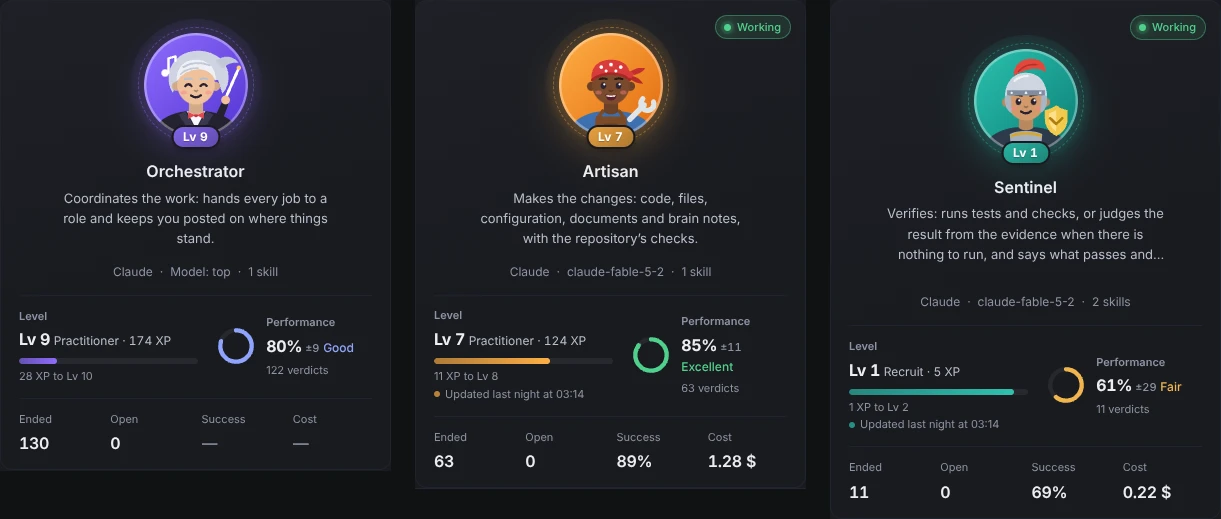
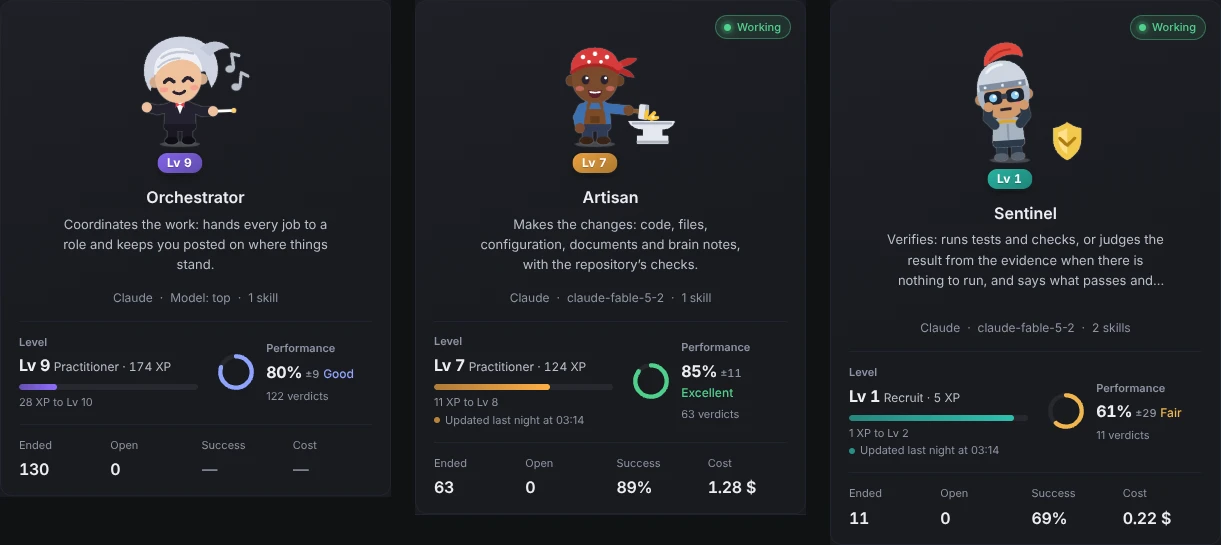
feat(agents): the role's little person at work on the front of its card; no person for Flash (ADR 0294)
The owner approved the little people and asked for them on the front of the
role cards too. Flash gets none: that agent is being removed. README shots of
the cards retaken.

diff --git a/src/shared/concept-guide.de.ts b/src/shared/concept-guide.de.ts
@@ -72,7 +72,7 @@ export const GUIDE_DE: Readonly<Record<string, string>> = {
   "A new version comes only when the text or the skills change, and it says what changed; model (engine, model, effort), tier, tools, permissions, limits, the app’s migrations and the automatic engine switch update the version in use. The role’s page has a \"By model\" table: runs, performance (it starts from the role’s own), cost per successful run (marked \"estimate\" when the engine reports tokens only) and time. For each version the page shows runs, verified outcomes and the success with its ± (under 5 outcomes: \"too few\"), and brings an older one back with a click.": "Eine neue Version entsteht nur, wenn sich Text oder Skills ändern, und sie sagt, was sich geändert hat; Modell (Engine, Modell, Aufwand), Stufe, Tools, Berechtigungen, Grenzen, die Migrationen der App und der automatische Engine-Wechsel aktualisieren die aktive Version. Die Seite der Rolle hat eine Tabelle „Nach Modell“: Läufe, Leistung (sie startet bei der Leistung der Rolle), Kosten pro erfolgreichem Lauf (als „Schätzung“ markiert, wenn die Engine nur Tokens meldet) und Zeit. Für jede Version zeigt die Seite Runs, geprüfte Ergebnisse und den Erfolg mit seinem ± (unter 5 Ergebnissen: „zu wenige“) und aktiviert eine ältere mit einem Klick.",
   "Every role uses the model written on its card; when the card names none, the tier (light, mid, top) becomes a model per engine: your choice in Settings, else the brain’s model registry. No table picks the model per kind of work. Sentinel is independent because it starts in a new session without the parent’s reasoning, not because it switches model. Engine, model and effort (by the model’s real names: low, medium, high, xhigh, max) are chosen in one picker, the same everywhere: on the back of the card (\"Save to the role\", for the role’s new chats), from the model chip of the Orchestrator and Flash and from \"Model and effort…\" in a strip’s ⋯; it searches the four engines, says why an engine cannot be picked and shows each model’s context, effort and price (\"price unknown\" when the registry does not know it: the model can be picked all the same). The lists come from the engines themselves, refresh by themselves every 6 hours and at once with \"Refresh list\"; a model out today shows up without an app update: the app runs the Claude Code installed on the PC (the copy included in the app only when there is none, with a notice in Settings › Engines) and each menu adds the models of the brain’s models.json the engine’s list does not name yet, marked «from the registry». \"This chat only\" changes just the chat, \"Orchestrator default\" saves on its card. The back of the card keeps the context window; when the model lacks the chosen effort, the task starts at the nearest lower level and the card says so. At the top of the Orchestrator’s model menu sits the \"Balanced mode\" switch (mirrored in Settings › Roles and delegation): on, every card shows \"Balanced\" and whoever delegates picks engine, model and effort so that every provider’s credits go down in proportion to what is left; off, every role goes back to its card.": "Jede Rolle nutzt das Modell, das auf ihrer Karte steht; nennt die Karte keines, wird die Stufe (leicht, mittel, hoch) zu einem Modell pro Engine: deine Wahl in den Einstellungen, sonst die Modellregistry des Brain. Keine Tabelle wählt das Modell nach Art der Arbeit. Sentinel ist unabhängig, weil es in einer neuen Sitzung ohne die Überlegungen des Elternchats startet, nicht weil es das Modell wechselt. Engine, Modell und Effort (mit den echten Namen des Modells: low, medium, high, xhigh, max) wählst du in einer einzigen Auswahl, überall gleich: auf der Rückseite der Karte („In der Rolle speichern“, für die neuen Chats der Rolle), über den Modell-Chip des Orchestrators und von Flash und über „Modell und Effort…“ im ⋯ eines Streifens; sie durchsucht die vier Engines, sagt, warum eine Engine nicht wählbar ist, und zeigt Kontext, Effort und Preis jedes Modells („Preis unbekannt“, wenn die Registry ihn nicht kennt: das Modell ist trotzdem wählbar). Die Listen kommen von den Engines selbst, aktualisieren sich alle 6 Stunden von selbst und sofort mit „Liste aktualisieren“; ein heute erschienenes Modell erscheint ohne App-Update: Die App nutzt das auf dem PC installierte Claude Code (die in der App enthaltene Kopie nur, wenn keines da ist, mit einem Hinweis in Einstellungen › Engines), und jedes Menü ergänzt die Modelle aus der models.json des Brains, die die Liste der Engine noch nicht nennt, markiert mit „aus dem Register“. „Nur dieser Chat“ ändert nur den Chat, „Standard des Orchestrators“ speichert auf seiner Karte. Auf der Rückseite der Karte bleibt das Kontextfenster; fehlt dem Modell der gewählte Effort, startet die Aufgabe mit der nächstniedrigeren Stufe und die Karte sagt es. Oben im Modellmenü des Orchestrators sitzt der Schalter „Balanced mode“ (gespiegelt in Einstellungen › Rollen und Delegation): an, zeigt jede Karte „Balanced“ und wer delegiert, wählt Engine, Modell und Effort so, dass die Guthaben aller Anbieter im Verhältnis zum Rest sinken; aus, kehrt jede Rolle zu ihrer Karte zurück.",
   "Tools come in classes: a role limited to read-only commands has a writing command refused in the chat (when a chat that may run it delegated it, you decide); one that reads, or a node script listed in read-only-tools.md in the brain, reaches you as a permission without \"always\". When a skill passed to a role uses tools the role lacks, the Orchestrator knows at once, as it opens or delegates the work.": "Tools gibt es in Klassen: bei einer Rolle, die nur lesende Befehle darf, wird ein schreibender Befehl im Chat abgelehnt (hat ein Chat, der ihn ausführen darf, ihn delegiert, entscheidest du); einer, der liest, oder ein node-Skript, das in read-only-tools.md im Brain steht, erreicht dich als Berechtigung ohne „immer“. Nutzt ein an eine Rolle übergebener Skill Tools, die der Rolle fehlen, weiß es der Orchestrator sofort, wenn er die Arbeit eröffnet oder delegiert.",
-  "Every role has a cartoon character recognisable even at 16 px: below 24 px the colour, the hair or headwear and the eyes stay; from 24 px the face and the prop too.": "Jede Rolle hat eine Comicfigur, die auch bei 16 px erkennbar ist: unter 24 px bleiben Farbe, Haare oder Kopfbedeckung und Augen; ab 24 px auch Gesicht und Requisit.",
+  "Every role has a cartoon character recognisable even at 16 px: below 24 px the colour, the hair or headwear and the eyes stay; from 24 px the face and the prop too. On the front of its card in Agents the role is its whole little person at work, the same as on the Grindhouse strips.": "Jede Rolle hat eine Comicfigur, die auch bei 16 px erkennbar ist: unter 24 px bleiben Farbe, Haare oder Kopfbedeckung und Augen; ab 24 px auch Gesicht und Requisit. Auf der Vorderseite ihrer Karte in Agenten ist die Rolle ihr ganzes Männchen bei der Arbeit, dasselbe wie auf den Streifen des Grindhouse.",
   "Like the department cards of a workshop: who does what, with which tools and how far they may go without asking; the card is updated, the department stays.": "Wie die Abteilungskarten einer Werkstatt: wer was macht, mit welchen Werkzeugen und wie weit ohne Nachfragen; die Karte wird aktualisiert, die Abteilung bleibt.",
   "Tool classes: read, edit, shell, shell-read, web, browser, browser-read, mail-draft, calendar-read, brain-write, mcp (all by default). Ceilings: none (default), acceptEdits, default, plan.": "Tool-Klassen: read, edit, shell, shell-read, web, browser, browser-read, mail-draft, calendar-read, brain-write, mcp (alle standardmäßig). Grenzen: none (Standard), acceptEdits, default, plan.",
   "Instructions ≤ 8000 chars; at most 40 default skills; a role never launches itself or the Orchestrator.": "Anweisungen ≤ 8000 Zeichen; höchstens 40 Standard-Skills; eine Rolle startet nie sich selbst oder den Orchestrator.",
@@ -222,7 +222,7 @@ export const GUIDE_DE: Readonly<Record<string, string>> = {
   "Questions never wake the Orchestrator by themselves (orchestrator-wake.ts); the order is arrival order.": "Fragen wecken den Orchestrator nie von selbst (orchestrator-wake.ts); die Reihenfolge ist die des Eintreffens.",
   "The Grindhouse": "Das Grindhouse",
   "The home page: one strip per working agent, with the browsers it drives beside the expanded chat.": "Die Startseite: ein Streifen pro arbeitendem Agenten, mit den Browsern, die er steuert, neben dem aufgeklappten Chat.",
-  "The page shows one strip per agent, on a single line: the role’s little person doing its job while the chat works (the Artisan hammers, the Sentinel scans with binoculars) and changing with the state (thinking, waiting for you, done, failed, resting), the name, what it is doing now and, on the right, time and cost so far next to the estimate (amber once past it). The details (model, full estimate, links) open from the ⓘ of the open window. The controls (stop, full screen, menu) appear under the pointer; pending requests are collected in the Orchestrator while keeping the link to the original worker. The Orchestrator and Flash have no strip: their little person stands on the chat’s \"thinking\" line.": "Die Seite zeigt einen Streifen pro Agent, in einer einzigen Zeile: das Männchen der Rolle, das seine Arbeit tut, während der Chat arbeitet (der Artisan hämmert, die Sentinel späht mit dem Fernglas), und sich mit dem Zustand ändert (denkt nach, wartet auf dich, fertig, Fehler, ruht), den Namen, was er gerade tut und rechts Zeit und Kosten bisher neben der Schätzung (bernsteinfarben, sobald sie überschritten ist). Die Details (Modell, vollständige Schätzung, Links) öffnen sich über das ⓘ des geöffneten Fensters. Die Bedienelemente (Stopp, Vollbild, Menü) erscheinen unter dem Mauszeiger; offene Anfragen werden im Orchestrator gesammelt, die Verbindung zum ursprünglichen Worker bleibt erhalten. Orchestrator und Flash haben keinen Streifen: ihr Männchen steht in der Zeile «denkt nach» des Chats.",
+  "The page shows one strip per agent, on a single line: the role’s little person doing its job while the chat works (the Artisan hammers, the Sentinel scans with binoculars) and changing with the state (thinking, waiting for you, done, failed, resting), the name, what it is doing now and, on the right, time and cost so far next to the estimate (amber once past it). The details (model, full estimate, links) open from the ⓘ of the open window. The controls (stop, full screen, menu) appear under the pointer; pending requests are collected in the Orchestrator while keeping the link to the original worker. The Orchestrator has no strip: its little person stands on the chat’s \"thinking\" line.": "Die Seite zeigt einen Streifen pro Agent, in einer einzigen Zeile: das Männchen der Rolle, das seine Arbeit tut, während der Chat arbeitet (der Artisan hämmert, die Sentinel späht mit dem Fernglas), und sich mit dem Zustand ändert (denkt nach, wartet auf dich, fertig, Fehler, ruht), den Namen, was er gerade tut und rechts Zeit und Kosten bisher neben der Schätzung (bernsteinfarben, sobald sie überschritten ist). Die Details (Modell, vollständige Schätzung, Links) öffnen sich über das ⓘ des geöffneten Fensters. Die Bedienelemente (Stopp, Vollbild, Menü) erscheinen unter dem Mauszeiger; offene Anfragen werden im Orchestrator gesammelt, die Verbindung zum ursprünglichen Worker bleibt erhalten. Der Orchestrator hat keinen Streifen: sein Männchen steht in der Zeile «denkt nach» des Chats.",
   "Strips are grouped by area, i.e. the last folder of the chat’s working path.": "Streifen werden nach Bereich gruppiert, d. h. nach dem letzten Ordner des Arbeitspfads des Chats.",
   "An agent’s chat and browser are one window with three views: \"Chat\", \"Side by side\" and \"Browser\". In \"Side by side\" you drag the line between them to give one more room (a double click centres it again), and several pages of the same agent are tabs above the browser. Full screen (F11 or Ctrl+Shift+F) covers the whole app, for the chat and for the browser, with the same three views; Ctrl+R shows or hides the Orchestrator beside it, Esc leaves. A browser that needs you opens by itself; one out of view keeps working off screen.": "Chat und Browser eines Agenten sind ein Fenster mit drei Ansichten: „Chat“, „Nebeneinander“ und „Browser“. In „Nebeneinander“ ziehst du die Linie zwischen beiden, um einem mehr Platz zu geben (ein Doppelklick zentriert sie wieder), und mehrere Seiten desselben Agenten sind Tabs über dem Browser. Der Vollbildmodus (F11 oder Strg+Umschalt+F) bedeckt die ganze App, für den Chat und für den Browser, mit denselben drei Ansichten; Strg+R zeigt oder verbirgt den Orchestrator daneben, Esc verlässt ihn. Ein Browser, der dich braucht, öffnet sich von selbst; einer außer Sicht arbeitet außerhalb des Bildschirms weiter.",
   "Under each strip appear the subagents and commands still at work, each with the name of the app agent it runs as, or the engine’s type (\"Explore · read-only\" for the read-only search, the only one allowed in role chats; \"no agent\" only when the engine names none); finished ones leave at once (the full list stays in \"Details and collaborators\"). While a subagent works, the parent strip says \"waiting\", not \"finished\".": "Unter jedem Streifen erscheinen die Subagenten und Befehle, die noch arbeiten, jeder mit dem Namen des App-Agenten, als der er läuft, oder mit dem Typ der Engine („Explore · nur lesen“ für die Suche nur mit Lesen, die einzige, die in Rollen-Chats erlaubt ist; „kein Agent“ nur, wenn die Engine keinen nennt); fertige verschwinden sofort (die ganze Liste bleibt unter „Details und Mitwirkende“). Solange ein Subagent arbeitet, sagt der Elternstreifen „wartet“, nicht „fertig“.",

diff --git a/src/shared/concept-guide.ts b/src/shared/concept-guide.ts
@@ -196,9 +196,9 @@ export const CONCEPTS: readonly ConceptCard[] = [
       // src/main/agents/tool-policy.ts browserAccess, readOnlyCommand; src/main/chats/manager-requests.ts refusedCommand; src/main/agents/skill-needs.ts
       b('Strumenti a classi: un ruolo limitato ai comandi di sola lettura vede rifiutato in chat un comando che scrive (se l’ha delegato una chat che può eseguirlo, decidi tu); uno che legge, o uno script node elencato in read-only-tools.md nel brain, ti arriva come permesso senza «sempre». Se una skill passata a un ruolo usa strumenti che il ruolo non ha, l’Orchestrator lo sa subito, già quando apre o delega il lavoro.',
         'Tools come in classes: a role limited to read-only commands has a writing command refused in the chat (when a chat that may run it delegated it, you decide); one that reads, or a node script listed in read-only-tools.md in the brain, reaches you as a permission without "always". When a skill passed to a role uses tools the role lacks, the Orchestrator knows at once, as it opens or delegates the work.'),
-      // src/renderer/components/AgentAvatar.tsx; src/renderer/lib/character-art.ts
-      b('Ogni ruolo ha un personaggio a cartone riconoscibile anche a 16 px: sotto i 24 px restano colore, capigliatura o copricapo e occhi; da 24 px anche viso e attrezzo.',
-        'Every role has a cartoon character recognisable even at 16 px: below 24 px the colour, the hair or headwear and the eyes stay; from 24 px the face and the prop too.'),
+      // src/renderer/components/AgentAvatar.tsx; src/renderer/lib/character-art.ts; AgentCatalogCard.tsx (the person on the front, ADR 0294)
+      b('Ogni ruolo ha un personaggio a cartone riconoscibile anche a 16 px: sotto i 24 px restano colore, capigliatura o copricapo e occhi; da 24 px anche viso e attrezzo. Sul fronte della sua carta in Agenti il ruolo è l’omino intero al lavoro, lo stesso delle strisce della Grindhouse.',
+        'Every role has a cartoon character recognisable even at 16 px: below 24 px the colour, the hair or headwear and the eyes stay; from 24 px the face and the prop too. On the front of its card in Agents the role is its whole little person at work, the same as on the Grindhouse strips.'),
     ],
     analogy: b('Come le schede dei reparti di un’officina: chi fa cosa, con quali attrezzi e fin dove può spingersi senza chiedere; la scheda si aggiorna, il reparto resta.',
       'Like the department cards of a workshop: who does what, with which tools and how far they may go without asking; the card is updated, the department stays.'),
@@ -663,8 +663,8 @@ export const CONCEPTS: readonly ConceptCard[] = [
       'The home page: one strip per working agent, with the browsers it drives beside the expanded chat.'),
     points: [
       // src/renderer/brain/pages/Home.tsx
-      b('La pagina mostra una striscia per agente, su una riga sola: l’omino del ruolo che fa il suo mestiere mentre la chat lavora (l’Artisan martella, la Sentinel scruta col binocolo) e cambia con lo stato (pensa, ti aspetta, ha finito, ha sbagliato, riposa), il nome, cosa sta facendo adesso e, a destra, tempo e costo finora accanto alla stima (in ambra se la superano). I dettagli (modello, stima completa, link) si aprono dalla ⓘ della finestra aperta. I comandi (ferma, schermo intero, menu) compaiono al passaggio del mouse; le richieste in attesa sono raccolte nell’Orchestrator, mantenendo il collegamento al worker originale. L’Orchestrator e Flash non hanno una striscia: il loro omino sta nella riga «sta pensando» della chat.',
-        'The page shows one strip per agent, on a single line: the role’s little person doing its job while the chat works (the Artisan hammers, the Sentinel scans with binoculars) and changing with the state (thinking, waiting for you, done, failed, resting), the name, what it is doing now and, on the right, time and cost so far next to the estimate (amber once past it). The details (model, full estimate, links) open from the ⓘ of the open window. The controls (stop, full screen, menu) appear under the pointer; pending requests are collected in the Orchestrator while keeping the link to the original worker. The Orchestrator and Flash have no strip: their little person stands on the chat’s "thinking" line.'),
+      b('La pagina mostra una striscia per agente, su una riga sola: l’omino del ruolo che fa il suo mestiere mentre la chat lavora (l’Artisan martella, la Sentinel scruta col binocolo) e cambia con lo stato (pensa, ti aspetta, ha finito, ha sbagliato, riposa), il nome, cosa sta facendo adesso e, a destra, tempo e costo finora accanto alla stima (in ambra se la superano). I dettagli (modello, stima completa, link) si aprono dalla ⓘ della finestra aperta. I comandi (ferma, schermo intero, menu) compaiono al passaggio del mouse; le richieste in attesa sono raccolte nell’Orchestrator, mantenendo il collegamento al worker originale. L’Orchestrator non ha una striscia: il suo omino sta nella riga «sta pensando» della chat.',
+        'The page shows one strip per agent, on a single line: the role’s little person doing its job while the chat works (the Artisan hammers, the Sentinel scans with binoculars) and changing with the state (thinking, waiting for you, done, failed, resting), the name, what it is doing now and, on the right, time and cost so far next to the estimate (amber once past it). The details (model, full estimate, links) open from the ⓘ of the open window. The controls (stop, full screen, menu) appear under the pointer; pending requests are collected in the Orchestrator while keeping the link to the original worker. The Orchestrator has no strip: its little person stands on the chat’s "thinking" line.'),
       // src/renderer/lib/agent-order.ts
       b('Le strisce sono raggruppate per area, cioè l’ultima cartella del percorso di lavoro della chat.',
         'Strips are grouped by area, i.e. the last folder of the chat’s working path.'),

diff --git a/src/renderer/lib/agent-sprites.ts b/src/renderer/lib/agent-sprites.ts
@@ -2,16 +2,17 @@
 // on a small body in the role's clothes, free on the strip (no tile), and does its own job while its chat
 // works: the Orchestrator conducts, the Strategist lifts a chess knight at its table, the Scout walks with a magnifying
 // glass, the Artisan hammers on an anvil, the Sentinel scans with binoculars beside its shield, the Herald blows its
-// horn, Flash runs; a chat without a role types on a laptop. The other states are shared: thinking (a hand at the chin,
+// horn; a chat without a role types on a laptop. The other states are shared: thinking (a hand at the chin,
 // a thought), waiting for the user (a wave, a hop, an amber «!»), done (two jumps with the arms up, then still under a
 // green tick), error (the head down, a sigh, a drop of sweat, a red «!»), idle (asleep, nodding off). Every scene is a
 // small piece of acting written as tracks of keys (lib/sprite-rig.ts): a move loads, strikes, overshoots and settles,
 // the body squashes when it lands, the head follows a moment late. Drawn by components/AgentSprite.tsx.
-import { CHARACTER_IDS, type CharacterId } from '../../shared/characters';
+import type { CharacterId } from '../../shared/characters';
 import { CHARACTERS, type Shape } from './character-art';
-import { AMBER, GOLD, GREEN, INK, J, RED, SKY, WHITE, bubble, drift, ink, person, quaver, sh, sway, type Ease, type Key, type Look, type Node, type Pose, type Track } from './sprite-rig';
+import { AMBER, GOLD, GREEN, INK, J, RED, SKY, WHITE, bubble, ink, person, quaver, sh, sway, type Ease, type Key, type Look, type Node, type Pose, type Track } from './sprite-rig';
 
-export type SpriteId = CharacterId | 'plain';
+/** The roles with a little person (the keys of WORK below); any other chat is the plain one. */
+export type SpriteId = keyof typeof WORK;
 export type SpriteState = 'work' | 'think' | 'wait' | 'done' | 'err' | 'idle';
 /** One scene: the tree to draw. */
 export interface SpriteScene { nodes: Node[] }
@@ -35,8 +36,6 @@ const CLOTHES: Record<SpriteId, Pick<Look, 'top' | 'sleeve' | 'pants' | 'shoes' 
     wear: [S('M25.4 46.4C28 44.6 36 44.6 38.6 46.4', '#d9a72c', 1.5), S('M32 47V54', '#8a96a8', 1)] },
   herald: { top: '#2d4fa1', pants: '#26224a', shoes: '#16142c',
     wear: [C(28.4, 43.8, 1.9, WHITE), C(32, 44.4, 1.9, WHITE), C(35.6, 43.8, 1.9, WHITE), C(32, 49, 1, GOLD), C(32, 52.4, 1, GOLD)] },
-  flash: { top: '#d93b30', pants: '#b02a22', shoes: '#ffd23f',
-    wear: [P('M33.4 45.4L30 50.4H32.4L31 54.4L35 49H32.8L34.2 45.4Z', '#ffd23f')] },
   plain: { top: '#93a7cc', pants: '#2f3445', shoes: '#eceef4',
     wear: [S('M30.6 43V46.4M33.4 43V46.4', '#eceef4', 0.9), rr(28.4, 50.6, 7.2, 3.6, 1.2, '#7f93ba')] },
 };
@@ -63,7 +62,7 @@ const notes = (x: number, y: number, t: number, at: [number, number]): Node[] =>
 const Z = 'M-2.6 -2.6H2.6L-2.6 2.6H2.6';
 
 // ── what each role does while its chat works ─────────────────────────────────────────────────────────────────────────
-const WORK: Record<SpriteId, () => Pose> = {
+const WORK = {
   // four beats: down, in, out, up; the left hand follows a moment late, the baton trails the hand
   orchestrator: () => ({
     eyes: 'happy', mouth: 'smile',
@@ -144,17 +143,6 @@ const WORK: Record<SpriteId, () => Pose> = {
     armL: { a: 38, b: -72 },
     front: notes(66, 29, 2.8, [24, 44]),
   }),
-  // a run: the body lands and pushes off, the arms pump, the head rides it, lines and dust behind
-  flash: () => ({
-    mouth: 'grin', lean: 10,
-    go: loop(0.32, [k(0, { sy: 0.96, sx: 1.02, e: 'out' }), k(25, { dy: -1.9, sy: 1.03, e: 'in' }), k(50, { sy: 0.96, sx: 1.02, e: 'out' }), k(75, { dy: -1.9, sy: 1.03, e: 'in' })]),
-    head: { go: loop(0.32, [k(0, { a: 2 }), k(25, { a: -2 }), k(50, { a: 2 }), k(75, { a: -2 })], 0.04) },
-    legL: { a: 44, go: sway(-44, 0.16) }, legR: { a: -44, go: sway(44, 0.16) },
-    armL: { a: -48, b: -82, go: sway(48, 0.16) }, armR: { a: 48, b: -82, go: sway(-48, 0.16) },
-    front: [J(15, 40, 0, [ink([S('M0 0H8', WHITE, 1.7)])], drift(-13, 0, 0.5)), J(12, 50, 0, [ink([S('M0 0H6', WHITE, 1.7)])], drift(-11, 0, 0.5, -0.2)),
-      J(16, 58, 0, [ink([S('M0 0H7', WHITE, 1.7)])], drift(-13, 0, 0.5, -0.36)),
-      J(21, 63, 0, [ink([C(0, 0, 1.5, WHITE)])], drift(-8, -3, 0.48, 0, 2)), J(21, 63, 0, [ink([C(0, 0, 1.2, WHITE)])], drift(-10, -1, 0.48, -0.24, 2))],
-  }),
   // types with both hands while the lines of code write themselves on the screen, then a nod
   plain: () => {
     const line = (y: number, w: number, c: string, from: number, to: number): Node =>
@@ -168,7 +156,7 @@ const WORK: Record<SpriteId, () => Pose> = {
         line(45.4, 8, SKY, 2, 26), line(48.4, 11.6, WHITE, 28, 58), line(51.4, 5.6, '#7ee0a8', 60, 78)],
     };
   },
-};
+} satisfies Partial<Record<CharacterId | 'plain', () => Pose>>;
 
 // ── the states every role shares ─────────────────────────────────────────────────────────────────────────────────────
 const SHARED: Record<Exclude<SpriteState, 'work'>, () => Pose> = {
@@ -235,5 +223,6 @@ export function spriteScene(id: SpriteId, state: SpriteState): SpriteScene {
   if (!s) cache.set(key, s = { nodes: person(lookOf(id), (state === 'work' ? WORK[id] : SHARED[state])()) });
   return s;
 }
-export const SPRITE_IDS: readonly SpriteId[] = [...CHARACTER_IDS, 'plain'];
+export const SPRITE_IDS = Object.keys(WORK) as readonly SpriteId[];
+export const isSpriteId = (id: string): id is SpriteId => Object.hasOwn(WORK, id);
 export const SPRITE_STATES: readonly SpriteState[] = ['work', 'think', 'wait', 'done', 'err', 'idle'];

diff --git a/src/renderer/components/AgentCatalogCard.tsx b/src/renderer/components/AgentCatalogCard.tsx
@@ -1,4 +1,4 @@
-// Role card of the Agenti catalogue (AgentCatalogPage): on the front the character large and centred, its name and what
+// Role card of the Agenti catalogue (AgentCatalogPage): on the front the role's little person at its work, large and free (ADR 0294; a picture the user gave the role stays a portrait in its circle), its name and what
 // it is for, engine and model tier («Modello: alto»), a live status, its level (from the XP of its verified successful runs, ADR 0131,
 // shown beside it: «Lv 7 Praticante · 124 XP», ADR 0100; for a work role, when the nightly review last updated it, ADR 0203) and performance % (a Bayesian estimate of the verdicts weighted by trust and
 // recency, with its ±, the agent's own word excluded, with the verdicts it rests on; main/agents/standing.ts), each with a "?" giving the formula, and four compact run metrics (the success rate among them: verified verdicts only, shared/success.ts, ADR 0186); a click anywhere on the card flips it in 3D (#81)
@@ -18,6 +18,9 @@ import { MIN_SUCCESS_SAMPLE, enoughVerdicts } from '@shared/success';
 import { characterTone } from '../lib/character-art';
 import { locale, t } from '../i18n';
 import { AgentAvatar } from './AgentAvatar';
+import { AgentSprite } from './AgentSprite';
+import { isSpriteId } from '../lib/agent-sprites';
+import { useOwnPicture } from '../lib/agent-images';
 import { AgentCardModel } from './AgentCardModel';
 import { PERMISSIONS_ELEMENT, permissionSummary } from './RolePermissions';
 import { updatedWhen } from './JudgingSwitch';
@@ -162,6 +165,9 @@ export function AgentCatalogCard({ profile, metrics, loaded, engine, lastStart, 
   const trial = !!profile.trial;
   const busy = useWorkingChats(profile.id);
   const working = !trial && busy > 0;
+  // the role's little person (ADR 0294), unless the user gave the role a picture of their own or it has none
+  const ownPicture = useOwnPicture(profile.avatar);
+  const person = !ownPicture && profile.avatar.kind === 'character' && isSpriteId(profile.avatar.value) ? profile.avatar.value : null;
   const state = trial ? 'trial' : working ? 'working' : 'active';
   const origin = t(profile.userLocked ? 'studio.customized' : 'studio.builtIn');
   // «Balanced mode» on (ADR 0218): a work role's engine and model are picked per delegation, so the card names no fixed one
@@ -185,7 +191,9 @@ export function AgentCatalogCard({ profile, metrics, loaded, engine, lastStart, 
             <i aria-hidden="true" />{trial ? t('studio.trial') : t('agentsGrid.working')}</span>}
         </div>}
         <header className="catalog-hero">
-          <span className="catalog-hero-avatar"><AgentAvatar avatar={profile.avatar} name={profile.name} size={104} />
+          <span className="catalog-hero-avatar" data-person={person ? true : undefined}>
+            {person ? <AgentSprite id={person} state="work" height={128} label={t('product.avatar', { name: profile.name })} />
+              : <AgentAvatar avatar={profile.avatar} name={profile.name} size={104} />}
             {standing && <span className="catalog-level-medal" aria-hidden="true">{t('agentsGrid.levelShort', { n: standing.level })}</span>}</span>
           <h3><button ref={front} type="button" onClick={() => flip(true)} aria-expanded={flipped} aria-controls={backId} aria-describedby={`${backId}-f`} data-testid={`catalog-flip-${profile.id}`}>{profile.name}</button></h3>
           <span id={`${backId}-f`} className="sr-only">{t('bm.card.flip', { name: profile.name })}</span>

diff --git a/src/renderer/components/AgentSprite.tsx b/src/renderer/components/AgentSprite.tsx
@@ -2,20 +2,20 @@
 // its joints, its tool) drawn as one inline SVG, free on the strip. Each joint carries its rest pose and its
 // animation inline; the @keyframes of a scene are written once into one <style> of the page the first time the scene
 // is drawn (styles/agent-sprite.css has the rest: the rim, the ink, the blink; no image, no timer, no script per
-// frame). Used by StripFace.tsx (the Grindhouse strips and the delegated rows) and by the working line of the
-// Orchestrator's and Flash's transcript (ChatItems.tsx Typing, in place of the spark). Without motion
+// frame). Used by StripFace.tsx (the Grindhouse strips and the delegated rows), by the front of the role cards
+// (AgentCatalogCard.tsx) and by the working line of the Orchestrator's transcript (ChatItems.tsx Typing, in place of
+// the spark). Without motion
 // (prefers-reduced-motion, a hidden window) it is the rest pose, which every state draws complete.
 import { createContext, useInsertionEffect, useMemo, type CSSProperties, type ReactElement } from 'react';
 import type { AgentAvatar as Avatar } from '@shared/agents';
-import { isCharacterId } from '@shared/characters';
-import { spriteScene, type SpriteId, type SpriteState } from '../lib/agent-sprites';
+import { isSpriteId, spriteScene, type SpriteId, type SpriteState } from '../lib/agent-sprites';
 import { VIEW, jointStyle, keyframesCss, type Node } from '../lib/sprite-rig';
 import '../styles/agent-sprite.css';
 
 /** The little person a transcript's working line shows instead of the spark (ChatItems.tsx Typing); null = the spark. */
 export const SpriteCtx = createContext<SpriteId | null>(null);
 /** The little person of a chat's role; a chat without a role is the plain one at a laptop. */
-export const spriteIdOf = (avatar: Avatar | undefined): SpriteId => (avatar?.kind === 'character' && isCharacterId(avatar.value) ? avatar.value : 'plain');
+export const spriteIdOf = (avatar: Avatar | undefined): SpriteId => (avatar?.kind === 'character' && isSpriteId(avatar.value) ? avatar.value : 'plain');
 
 const written = new Set<string>();
 /** The scene's @keyframes, added once to the page's one <style> for the sprites. */

diff --git a/src/renderer/lib/agent-images.ts b/src/renderer/lib/agent-images.ts
@@ -1,10 +1,12 @@
 // The user's own pictures for the roles, renderer half (shared/agent-images.ts): one shared copy of main's map for
 // every AgentAvatar on screen (loaded on the first badge, kept fresh by 'avatars:changed'), and the step that turns
 // a chosen file into the square PNG main accepts: format and header size checked before any decoding (avatar-raster.ts),
-// then the centre square drawn at AGENT_IMAGE_SIDE. Main checks and re-encodes it again. Used by AgentAvatar.tsx and
-// AgentImagePicker.tsx; unit tests in test/unit/agent-images.test.ts.
+// then the centre square drawn at AGENT_IMAGE_SIDE. Main checks and re-encodes it again. Used by AgentAvatar.tsx,
+// AgentImagePicker.tsx, StripFace.tsx and AgentCatalogCard.tsx (useOwnPicture); unit tests in test/unit/agent-images.test.ts.
 import { useSyncExternalStore } from 'react';
 import { AGENT_IMAGE_SIDE, type AgentImages } from '@shared/agent-images';
+import type { AgentAvatar } from '@shared/agents';
+import { isRoleId } from '@shared/roles';
 import { avatarRasterSize } from './avatar-raster';
 
 let images: AgentImages = {};
@@ -25,6 +27,11 @@ function subscribe(fn: () => void): () => void {
 
 /** role id → its picture, for every badge (a role without one draws its character) */
 export const useAgentImages = (): AgentImages => useSyncExternalStore(subscribe, () => images, () => images);
+/** True when the user gave this role a picture of their own: it is shown as it is, never as the little person (ADR 0294). */
+export const useOwnPicture = (avatar: AgentAvatar | undefined): boolean => {
+  const all = useAgentImages();
+  return avatar?.kind === 'character' && isRoleId(avatar.value) && !!all[avatar.value];
+};
 
 /** a phone photo is a few MB; larger is not a picture anyone picks for a badge */
 export const PICK_BYTES = 15 * 1024 * 1024;

diff --git a/test/unit/agent-sprites.test.ts b/test/unit/agent-sprites.test.ts
@@ -7,6 +7,7 @@ import { renderToStaticMarkup } from 'react-dom/server';
 import { describe, expect, it, vi } from 'vitest';
 vi.mock('../../src/renderer/sb', () => ({ sb: { invoke: vi.fn(), on: vi.fn() } }));
 import { CHARACTER_IDS } from '../../src/shared/characters';
+import { WORK_ROLE_IDS } from '../../src/shared/roles';
 import type { ChatItem } from '../../src/shared/contract';
 import { SPRITE_IDS, SPRITE_STATES, spriteScene } from '../../src/renderer/lib/agent-sprites';
 import { J, VIEW, jointStyle, keyframesCss, nodeSvg, trackName, walk, type Group } from '../../src/renderer/lib/sprite-rig';
@@ -16,8 +17,9 @@ import { isThinking, spriteStateOf } from '../../src/renderer/components/StripFa
 const groups = (id: (typeof SPRITE_IDS)[number], state: (typeof SPRITE_STATES)[number]) => walk(spriteScene(id, state).nodes).filter((n): n is Group => 'g' in n);
 
 describe('the little people', () => {
-  it('has one for every character, and a plain one', () => {
-    expect([...SPRITE_IDS].sort()).toEqual([...CHARACTER_IDS, 'plain'].sort());
+  it('has one for the Orchestrator, every work role, and a plain one', () => {
+    expect(SPRITE_IDS).toEqual(expect.arrayContaining(['orchestrator', ...WORK_ROLE_IDS, 'plain']));
+    expect(SPRITE_IDS.every(id => id === 'plain' || (CHARACTER_IDS as readonly string[]).includes(id))).toBe(true);
   });
   it('gives every role every state: a whole person, with joints that move', () => {
     for (const id of SPRITE_IDS) for (const state of SPRITE_STATES) {

diff --git a/src/renderer/components/StripFace.tsx b/src/renderer/components/StripFace.tsx
@@ -4,9 +4,8 @@
 // chat's state to the animation (spriteStateOf).
 import type { AgentAvatar as Avatar } from '@shared/agents';
 import type { ChatItem } from '@shared/contract';
-import { isRoleId } from '@shared/roles';
 import type { SpriteState } from '../lib/agent-sprites';
-import { useAgentImages } from '../lib/agent-images';
+import { useOwnPicture } from '../lib/agent-images';
 import { useApp } from '../store/store';
 import { t } from '../i18n';
 import { AgentAvatar } from './AgentAvatar';
@@ -29,9 +28,8 @@ export function isThinking(items: readonly ChatItem[] | undefined): boolean {
 }
 
 export function StripFace({ chatId, avatar, name, tone, size, height = 32, ...o }: { chatId: string; avatar: Avatar | undefined; name: string; tone: string; size: number; height?: number; waitsUser: boolean; error: boolean; busy: boolean; done: boolean; pending?: boolean }) {
-  const images = useAgentImages();
   const thinking = useApp(s => o.busy && isThinking(s.items[chatId]));
-  const own = avatar?.kind === 'character' && isRoleId(avatar.value) && !!images[avatar.value];
+  const own = useOwnPicture(avatar);
   if (own) return <span className="strip-face"><AgentAvatar avatar={avatar} name={name} size={size} /><span className={`strip-dot lead tone-${tone}`} aria-hidden="true" /></span>;
   return <span className="strip-face"><AgentSprite id={spriteIdOf(avatar)} state={spriteStateOf({ ...o, thinking })} height={height} label={t('product.avatar', { name })} /></span>;
 }

diff --git a/src/renderer/styles/agent-catalog.css b/src/renderer/styles/agent-catalog.css
@@ -80,6 +80,10 @@ section.agent-overview p{white-space:normal;overflow:visible;text-overflow:clip}
 .catalog-hero-avatar::before{content:"";position:absolute;inset:8px;border-radius:50%;border:1px dashed color-mix(in srgb,var(--tone) 38%,transparent);pointer-events:none}
 .catalog-hero-avatar>.agent-avatar{filter:drop-shadow(0 10px 18px color-mix(in srgb,var(--tone) 35%,transparent));transition:transform var(--dur-slow) var(--ease)}
 .bm-face-front:hover .catalog-hero-avatar>.agent-avatar{transform:translateY(-2px) scale(1.03)}
+/* the role's little person, free: no disc, no ring; the level medal sits under its feet (ADR 0294) */
+.catalog-hero-avatar[data-person]{width:auto;height:auto;padding-bottom:30px;border-radius:0;background:none}
+.catalog-hero-avatar[data-person]>.catalog-level-medal{left:40%}
+.catalog-hero-avatar[data-person]::before{content:none}
 .catalog-level-medal{position:absolute;left:50%;bottom:2px;transform:translateX(-50%);display:grid;place-items:center;height:24px;padding:0 10px;box-sizing:border-box;border-radius:12px;white-space:nowrap;
   background:linear-gradient(145deg,color-mix(in srgb,var(--tone) 92%,#000),color-mix(in srgb,var(--tone) 68%,#000));color:#fff;font-weight:700;font-size:var(--fs-s);letter-spacing:.02em;font-variant-numeric:tabular-nums;
   border:2px solid var(--surface);box-shadow:0 4px 10px -4px rgba(0,0,0,.5);text-shadow:0 1px 1px rgba(0,0,0,.25)}

diff --git a/src/renderer/components/LampoTile.tsx b/src/renderer/components/LampoTile.tsx
@@ -13,7 +13,6 @@ import { createChat, send, stop, useApp } from '../store/store';
 import { t } from '../i18n';
 import { brainBridge, clearFlash } from '../actions';
 import { ItemList, turnActivity, Typing } from './ChatItems';
-import { SpriteCtx } from './AgentSprite';
 import { ChatInput, type ChatInputHandle } from './ChatInput';
 import { IconButton, StatePill } from './ui';
 import { AgentAvatar } from './AgentAvatar';
@@ -75,7 +74,7 @@ export function LampoTile({ onWork }: { onWork: () => void }) {
       </div>
       <div className="chat-topic-row"><ModelChip chat={lampo} profileId={FLASH_ID} testid="lampo-model" /><span className="chat-topic">{t('lampo.hint')}</span></div>
     </header>
-    <ItemList chatId={lampo.id} items={items ?? []} empty={t('lampo.empty')} footer={busy ? <SpriteCtx.Provider value="flash"><Typing what={turnActivity(items)} testid="typing-lampo" items={items} /></SpriteCtx.Provider> : null} />
+    <ItemList chatId={lampo.id} items={items ?? []} empty={t('lampo.empty')} footer={busy ? <Typing what={turnActivity(items)} testid="typing-lampo" items={items} /> : null} />
     <ChatInput ref={input} chat={lampo} testid="lampo-input" voice="flash" />
   </section>;
 }

diff --git a/test/e2e/agent-cards.spec.ts b/test/e2e/agent-cards.spec.ts
@@ -45,7 +45,7 @@ test('agent cards: big centred character, level and performance with their "?" f
     expect(Number(await overview.getByTestId('catalog-level-orchestrator').getAttribute('data-level'))).toBeGreaterThan(1);
     expect(Number(await overview.getByTestId('catalog-level-flash').getAttribute('data-level'))).toBeGreaterThan(1);
     await expect(artisan.locator('.catalog-chip[data-kind="model"]')).toHaveText(/\S/); // the model it last ran on, else its tier
-    const big = await artisan.locator('.catalog-hero .agent-avatar').boundingBox();
+    const big = await artisan.locator('.catalog-hero .agent-sprite').boundingBox(); // the role's little person (ADR 0294)
     expect(big!.width).toBeGreaterThanOrEqual(96);
     // a new role: still warming up; the Battito's card is gone (ADR 0201)
     await expect(overview.getByTestId('catalog-perf-herald')).toContainText('In rodaggio');

diff --git a/src/renderer/lib/sprite-rig.ts b/src/renderer/lib/sprite-rig.ts
@@ -74,11 +74,6 @@ export function keyframesCss(nodes: readonly Node[]): string {
 
 /** There and back for ever: `t` seconds one way. */
 export const sway = (a: number, t: number, d = 0, e: Ease = 'io'): Track => ({ t: t * 2, d, keys: [{ at: 0, e }, { at: 50, a, e }] });
-/** Up and down (or aside) for ever. */
-export const bob = (dy: number, t: number, d = 0, dx = 0): Track => ({ t: t * 2, d, keys: [{ at: 0 }, { at: 50, dy, dx }] });
-/** Appears, drifts away and fades, for ever. */
-export const drift = (dx: number, dy: number, t: number, d = 0, s = 1, a?: number): Track =>
-  ({ t, d, keys: [{ at: 0, o: 0, e: 'out' }, { at: 14, o: 1, e: 'lin' }, { at: 100, o: 0, dx, dy, sx: s, sy: s, ...(a === undefined ? {} : { a }) }] });
 
 export type Eyes = 'open' | 'closed' | 'happy' | 'sad' | 'up' | 'none';
 export type Mouth = 'smile' | 'grin' | 'flat' | 'frown' | 'o';
